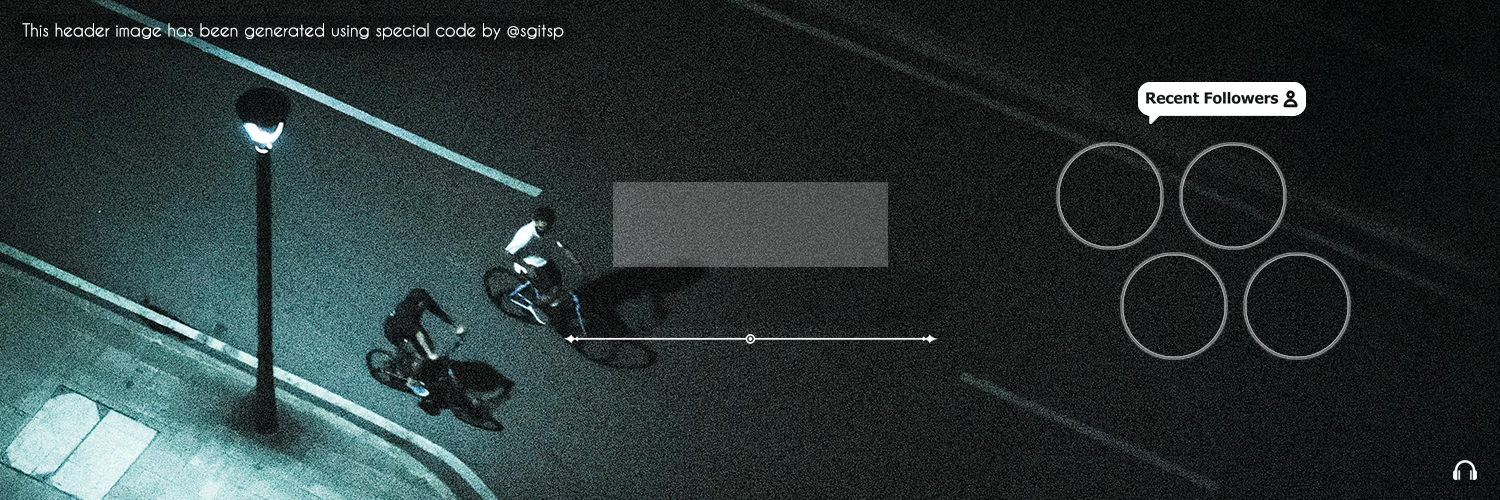
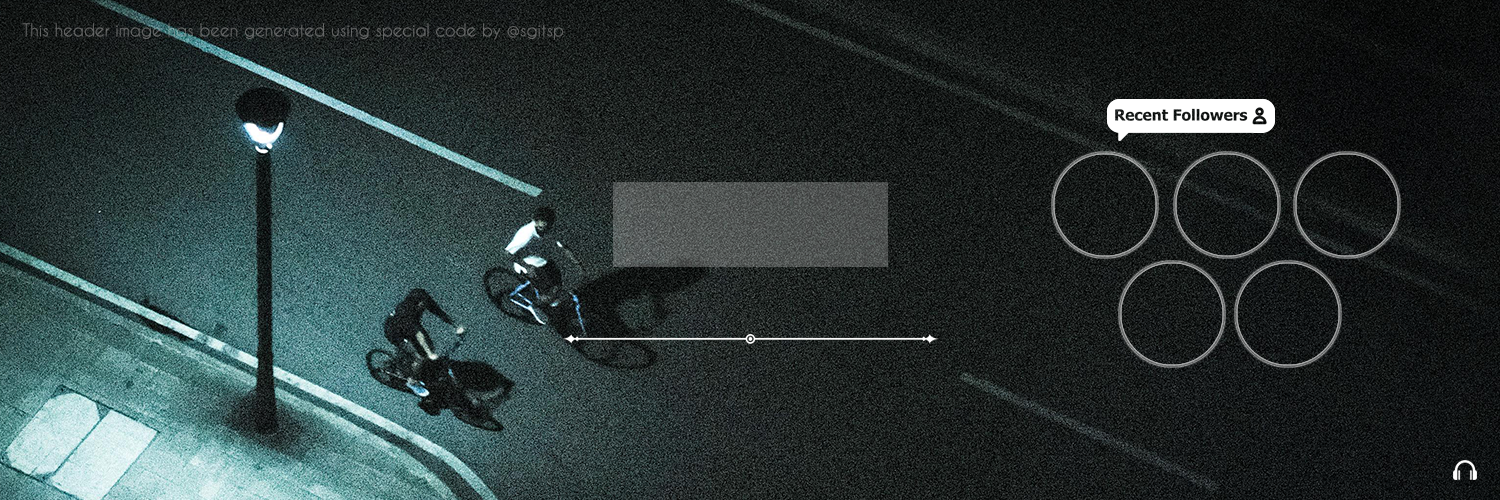
Edit header template

diff --git a/sgitsp.js b/sgitsp.js
@@ -40,7 +40,7 @@ function currentTime() {
 async function getLatestFollowers() {
   const data = await twitterClient.accountsAndUsers.followersList({
     screen_name: process.env.TWITTER_HANDLE,
-    count: 4,
+    count: 5,
   });
   console.log(`Fetch recent followers...`);
 
@@ -131,7 +131,7 @@ let credit = 'This header image has been generated using special code by @sgitsp
 // Function to draw image
 async function drawBanner() {
   const [day, date, month, year, fullDate, fullTime, seconds] = currentTime();
-  const images = ['1500x500-default.png', '0.png', '1.png', '2.png', '3.png'];
+  const images = ['1500x500-default.png', '0.png', '1.png', '2.png', '3.png', '4.png'];
   const promiseArray = [];
   const dayFont = await Jimp.loadFont('fonts/CaviarDreams_white-64.ttf.fnt');
   const timeFont = await Jimp.loadFont("fonts/Caviar_Dreams_Bold_64.fnt");
@@ -144,16 +144,17 @@ async function drawBanner() {
 
   Promise.all(promiseArray).then(
     ([banner, imageOne, imageTwo, imageThree, imageFour, listening, font]) => {
-      banner.composite(imageOne, 1062, 148);
-      banner.composite(imageTwo, 1185, 148);
-      banner.composite(imageThree, 1126, 258);
-      banner.composite(imageFour, 1249, 258);
+      banner.composite(imageOne, 1057, 157);
+      banner.composite(imageTwo, 1179, 157);
+      banner.composite(imageThree, 1299, 157);
+      banner.composite(imageFour, 1124, 266);
+      banner.composite(imageFive, 1240, 266);
       console.log(`Recent followers added!`);
       banner.print(dayFont, 0, 0, {
         text: day, // sunday
         alignmentX: Jimp.HORIZONTAL_ALIGN_CENTER,
         alignmentY: Jimp.VERTICAL_ALIGN_BOTTOM
-      }, 1500, 168);
+      }, 1500, 169);
       banner.print(timeFont, 0, 0, {
         text: fullTime,  // 14:12 WIB
         alignmentX: Jimp.HORIZONTAL_ALIGN_CENTER,
@@ -174,7 +175,7 @@ async function drawBanner() {
         text: listening,
         alignmentX: Jimp.HORIZONTAL_ALIGN_RIGHT,
         alignmentY: Jimp.VERTICAL_ALIGN_BOTTOM
-      }, 1445, 480);
+      }, 1444, 480);
       console.log(listening);
       console.log(`Last sync: ${day} ${fullDate} | ${fullTime}:${seconds} (UTC+7)`);
       banner.write('1500x500-draw.png',function () {
